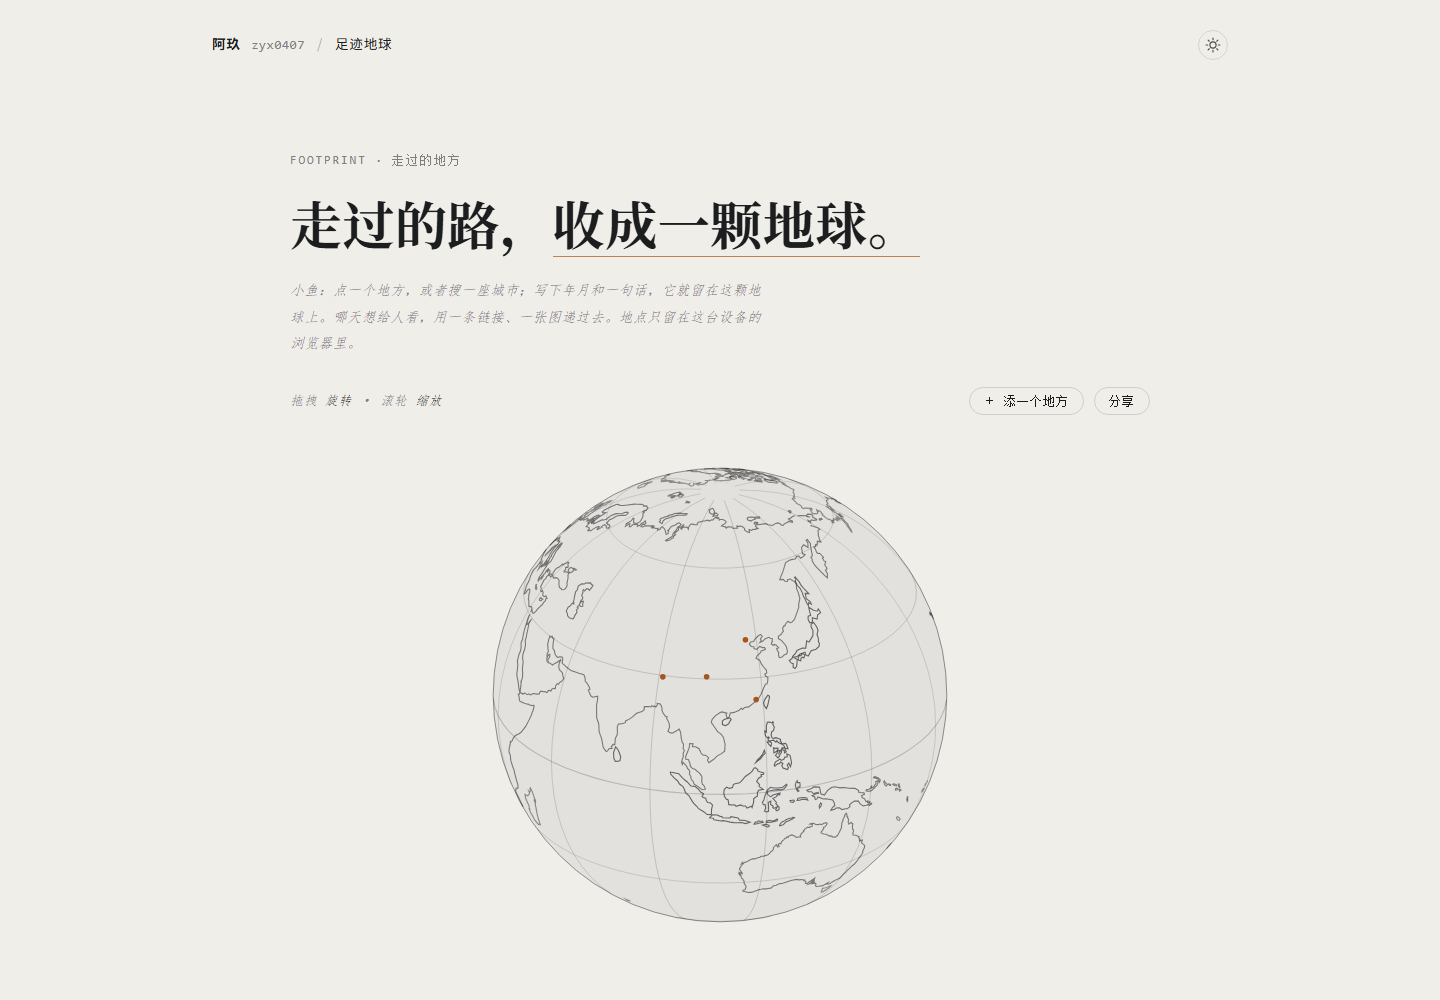
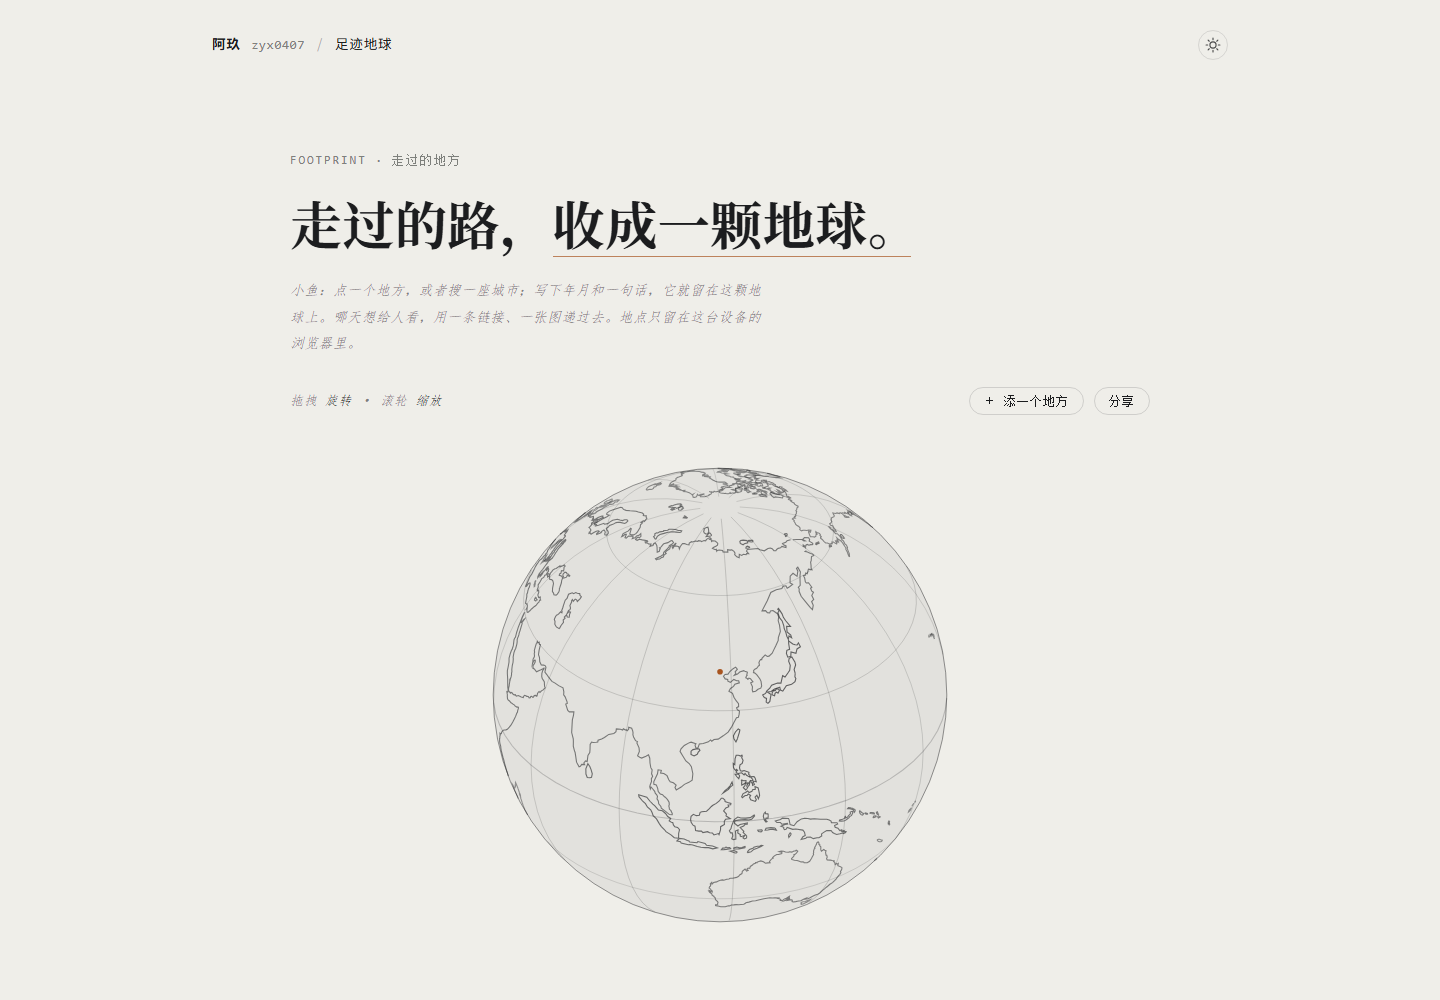
示例改成北京、年月选填、无地点可直接分享

Changed region(s): [[0.3438, 0.465, 0.625, 0.899], [0.4062, 0.713, 0.4375, 0.775]]

diff --git a/index.html b/index.html
@@ -332,12 +332,12 @@ html[data-theme="night"] .sug{box-shadow:0 10px 30px rgba(0,0,0,.5)}
     <p class="coord"><span id="editCoord">—</span><button class="link-btn mini" type="button" id="pickOnGlobe">在地球上选点</button></p>
     <label class="field"><span>搜地名 · <span id="presetCount">—</span> 个城市</span>
       <div class="sug-wrap">
-        <input id="fSearch" autocomplete="off" placeholder="中文或拼音，如 洛阳 / Luoyang">
+        <input id="fSearch" autocomplete="off" placeholder="中文或拼音，如 北京 / Beijing">
         <ul class="sug" id="sug" hidden></ul>
       </div>
     </label>
-    <label class="field"><span>地名</span><input id="fName" maxlength="20" autocomplete="off" placeholder="新乡"></label>
-    <label class="field"><span>年月</span><input id="fDate" type="month"></label>
+    <label class="field"><span>地名</span><input id="fName" maxlength="20" autocomplete="off" placeholder="北京"></label>
+    <label class="field"><span>年月 · 选填</span><input id="fDate" type="text" autocomplete="off" placeholder="2024 / 2024.05 / 2024.05.20，可留空"></label>
     <label class="field"><span>一句话</span><textarea id="fNote" rows="2" maxlength="120" placeholder="选填"></textarea></label>
     <div class="dialog-foot">
       <span class="hint" id="editHint"></span>
@@ -949,10 +949,7 @@ html[data-theme="night"] .sug{box-shadow:0 10px 30px rgba(0,0,0,.5)}
   const HAND = '"FangSong","仿宋","Noto Serif SC",serif';
 
   const DEMO = [
-    { name: '北京', date: '2019.07', lat: 39.90, lon: 116.41, note: '示例地点，点「清空示例」或直接记一个真的。', tag: '示例', demo: true },
-    { name: '成都', date: '2021.10', lat: 30.57, lon: 104.07, note: '', tag: '示例', demo: true },
-    { name: '厦门', date: '2022.06', lat: 24.48, lon: 118.09, note: '', tag: '示例', demo: true },
-    { name: '拉萨', date: '2023.08', lat: 29.65, lon: 91.14, note: '', tag: '示例', demo: true }
+    { name: '北京', date: '', lat: 39.90, lon: 116.41, note: '示例地点。年月可以不填；填 2024、2024.05 或 2024.05.20 都行。', tag: '示例', demo: true }
   ];
 
   const RAD = Math.PI / 180;
@@ -987,7 +984,7 @@ html[data-theme="night"] .sug{box-shadow:0 10px 30px rgba(0,0,0,.5)}
     pointer: null, proj: new Map(),
     poster: null, draft: null
   };
-  const view = { lon: 108, lat: 26, zoom: 1, mom: null };
+  const view = { lon: 116.4, lat: 34, zoom: 1, mom: null };
 
   /* ============ 存取 ============ */
   function readStore() {
@@ -1006,13 +1003,26 @@ html[data-theme="night"] .sug{box-shadow:0 10px 30px rgba(0,0,0,.5)}
     return {
       id: p.id || uid(),
       name: String(p.name || '').slice(0, 20),
-      date: String(p.date || '').slice(0, 10),
+      date: normalizeDate(p.date) || '',
       lat: clamp(Number(p.lat) || 0, -90, 90),
       lon: normLon(Number(p.lon) || 0),
       note: String(p.note || '').slice(0, 120),
       tag: String(p.tag || '').slice(0, 6),
       demo: !!p.demo
     };
+  }
+  /* 年月是选填：2024 / 2024.05 / 2024.05.20 都收，也收 - 和 / 分隔；空着返回 '' */
+  function normalizeDate(raw) {
+    const s = String(raw == null ? '' : raw).trim();
+    if (!s) return '';
+    const m = /^(\d{4})(?:[.\-/年](\d{1,2}))?(?:[.\-/月](\d{1,2}))?日?$/.exec(s);
+    if (!m) return null;
+    const y = +m[1], mo = m[2] ? +m[2] : 0, da = m[3] ? +m[3] : 0;
+    if (y < 1900 || y > 2100 || mo > 12 || da > 31) return null;
+    let out = String(y);
+    if (mo) out += '.' + String(mo).padStart(2, '0');
+    if (da) out += '.' + String(da).padStart(2, '0');
+    return out;
   }
 
   /* ============ 分享：只分享这个网页本身，不带任何地点信息 ============ */
@@ -1467,7 +1477,7 @@ html[data-theme="night"] .sug{box-shadow:0 10px 30px rgba(0,0,0,.5)}
     el.editKicker.textContent = place ? 'edit footprint' : 'footprint';
     el.editCoord.textContent = state.editing ? coordText(state.editing.lat, state.editing.lon) : '还没选位置';
     el.fName.value = place ? place.name : (draft ? draft.name : '');
-    el.fDate.value = place && place.date ? place.date.replace('.', '-') : (draft ? draft.date : '');
+    el.fDate.value = place && place.date ? place.date : (draft ? draft.date : '');
     el.fNote.value = place ? place.note : (draft ? draft.note : '');
     el.fSearch.value = '';
     hideSug();
@@ -1490,8 +1500,13 @@ html[data-theme="night"] .sug{box-shadow:0 10px 30px rgba(0,0,0,.5)}
       el.fSearch.focus();
       return;
     }
-    const raw = el.fDate.value;
-    const fields = { name: name, date: raw ? raw.replace('-', '.') : '', note: el.fNote.value.trim(), lat: state.editing.lat, lon: state.editing.lon };
+    const date = normalizeDate(el.fDate.value);
+    if (date === null) {
+      el.editHint.textContent = '年月写 2024、2024.05 或 2024.05.20 都行，也可以不填。';
+      el.fDate.focus();
+      return;
+    }
+    const fields = { name: name, date: date, note: el.fNote.value.trim(), lat: state.editing.lat, lon: state.editing.lon };
     let targetId = editingId;
     if (targetId) {
       const target = state.places.find((p) => p.id === targetId);
@@ -1632,7 +1647,7 @@ html[data-theme="night"] .sug{box-shadow:0 10px 30px rgba(0,0,0,.5)}
 
     drawGlobe({
       ctx: g, W: PW, H: PH, CX: PW / 2, CY: 760, R: 330,
-      view: { lon: 108, lat: 26, zoom: 1 }, pal: p, places: [], tags: false, sel: null, hov: null
+      view: { lon: 116.4, lat: 34, zoom: 1 }, pal: p, places: [], tags: false, sel: null, hov: null
     });
 
     g.strokeStyle = rgba(p.ink, 0.18); g.lineWidth = 1.5;

diff --git a/README.md b/README.md
@@ -14,6 +14,7 @@
 ## 页面上有什么
 
 - **搜地名**：内置 763 个城市（中文名 / 拼音 / 国家 / 坐标），选中就把地点落好；找不到还能在地球上自己点一个点。
+- **年月选填**：地名是必填的；年月可以写 `2024`、`2024.05` 或 `2024.05.20`，也可以不填。首次打开只有一条「北京」示例，点「清空示例」就能开始记自己的。
 - **线稿地球**：手写的正交投影，大陆轮廓 + 30° 经纬网；可拖拽旋转（带惯性）、滚轮缩放；落点是琥珀色的点，选中会出现纸签标签。
 - **条目**：等宽编号 + 宋体地名 + 年月与经纬度；点条目地球会转过去，可编辑、删除（删除点两次确认）。
 - **日夜**：暖纸 / 深色展厅两套配色，默认跟随系统，可手动切换并记住。
